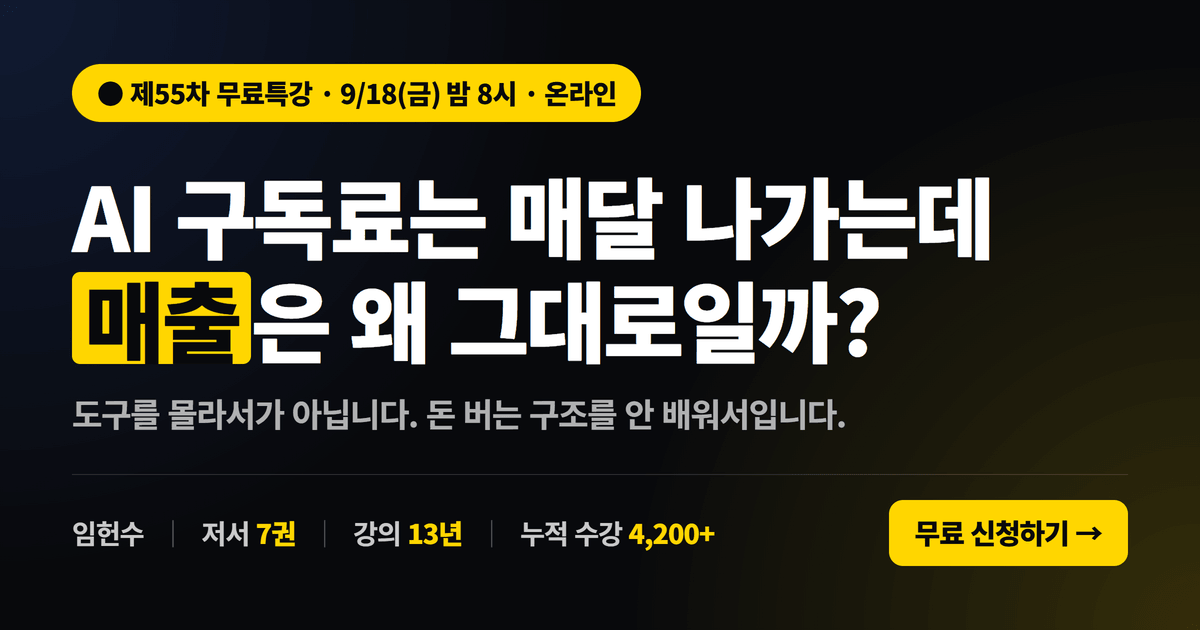
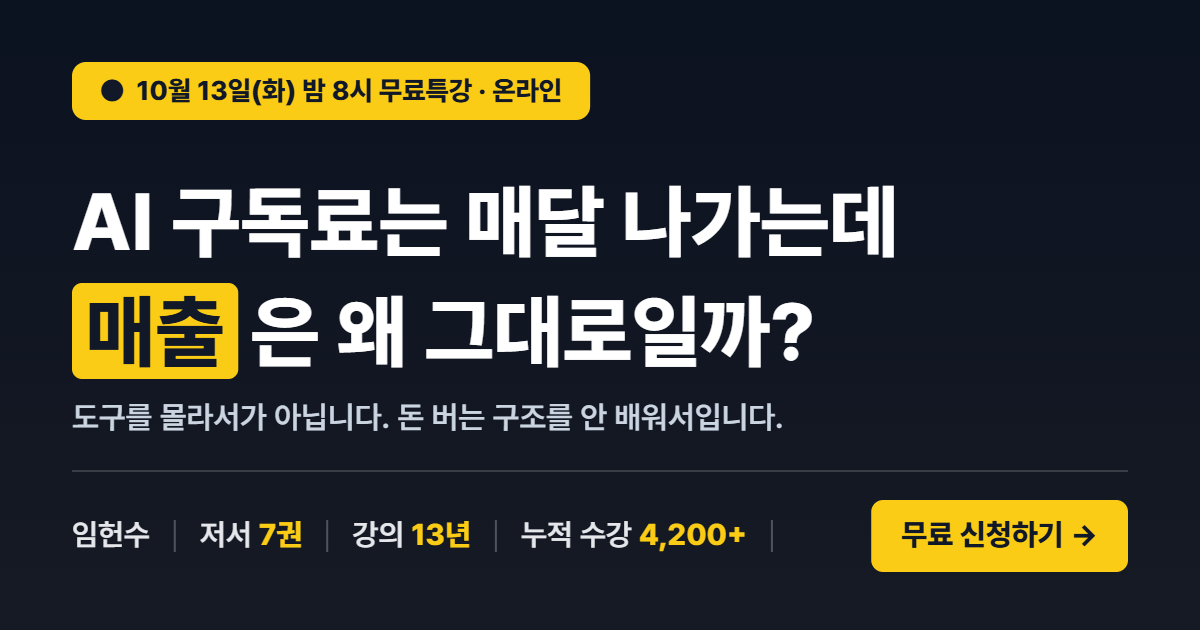
chore: 무료특강 일정 10/13(화)로 전면 교체, 일반 무료특강 톤으로 정리
- lib/constants.ts: CURRENT_SEMINAR 한 곳(시작/종료 ISO, 회차, 구글폼 값)에서
  모든 일시 표기를 파생. 종료 시각(endsAt) 이후 자동으로 "다음 회차 안내"로 전환.
  SEMINAR_DATE_LABEL / SEMINAR_TIME_LABEL / SEMINAR_START_ISO / SEMINAR_END_ISO 추가.
- 신청 폼 다시 열림(10/13 회차). 구글폼 수업 날짜 값은 "10월 13일(화)".
- "마지막/개강 전/2027년까지/10월 8일 개강" 표현 제거, 히어로 배지·긴급 리스트·
  FAQ·푸터를 일반 무료특강 문구로 교체. <title>/description/og/twitter 설명 갱신.
- 신뢰 바 누적 회차를 SEMINAR_ROUND 상수로 분리(59, 확인 필요).
- public/og-image.png: "10월 13일(화) 밤 8시 무료특강" 배지로 재생성(1200x630).

diff --git a/lib/constants.ts b/lib/constants.ts
@@ -1,13 +1,23 @@
-// 다음 특강에는 이 SESSION_LIST만 수정합니다.
-// - visible: false 인 회차는 화면 노출·폼 선택지에서 제외됩니다(코드에는 미리 넣어둘 수 있음).
-// - 활성 회차(SESSION) = visible이고 아직 시작하지 않은 회차 중 가장 이른 회차.
-//   시작 시각이 지나면 다음 회차로 자동으로 넘어갑니다.
-// - formOption: 구글폼 "수업 날짜" 문항(entry.1471197970)의 선택지와 글자 단위로 같아야 합니다.
-//   구글폼은 라디오 값이 선택지와 다르면 응답 전체를 400으로 거부합니다.
-//   생략하면 "10/6(화) 저녁 8시~10시30분" 형식으로 자동 생성되고, 구글폼 쪽 표기가 다르면 여기서 그대로 적어 덮어씁니다.
+// ─────────────────────────────────────────────────────────────────────────────
+// 특강 일시는 여기 CURRENT_SEMINAR 한 곳에서만 관리합니다. 다음 특강 때 이 블록만 고치면 됩니다.
+// 히어로·카운트다운·긴급 섹션·하단 고정 바·신청 폼·완료 문구·메타 설명이 모두 여기서 파생됩니다.
+// ─────────────────────────────────────────────────────────────────────────────
+const CURRENT_SEMINAR = {
+  // [확인 필요: 59차] 신뢰 바 "N차 누적 무료특강"에 표시되는 누적 회차
+  round: 59,
+  startsAtISO: "2026-10-13T20:00:00+09:00",
+  endsAtISO: "2026-10-13T22:30:00+09:00",
+  // 구글폼 9번 문항(entry.1471197970, 수업 날짜)으로 전송되는 값.
+  // 구글폼 선택지와 글자 단위로 같아야 합니다(다르면 구글폼이 응답 전체를 400으로 거부).
+  formOption: "10월 13일(화)",
+} as const;
+
+// 회차 목록. 현재는 CURRENT_SEMINAR 하나이며, 여러 회차를 동시에 모집할 때는 항목을 추가합니다.
+// - visible: false 인 회차는 화면 노출·폼 선택지에서 제외됩니다.
+// - 활성 회차(SESSION) = visible이고 아직 끝나지 않은(endsAt > 현재) 회차 중 가장 이른 회차.
+//   endsAt이 지나면 다음 회차로 넘어가고, 남은 회차가 없으면 마지막 회차를 폴백으로 보여주며 폼은 "다음 회차 안내" 상태가 됩니다.
 const SESSION_LIST = [
-  // 58차(2026년 마지막 무료특강, 17기 개강 이틀 전). 구글폼 선택지: "10/6(화) 저녁8시~10시30분"
-  { round: 58, startsAtISO: "2026-10-06T20:00:00+09:00", durationMinutes: 150, visible: true, formOption: "10/6(화) 저녁8시~10시30분" },
+  { ...CURRENT_SEMINAR, visible: true },
 ] as const;
 
 type SessionSource = (typeof SESSION_LIST)[number];
@@ -16,28 +26,32 @@ export type SessionInfo = {
   round: number;
   visible: boolean;
   startsAtISO: string;
-  /** 시작 시각(epoch ms). 이 시각이 지나면 다음 회차로 넘어갑니다. */
+  endsAtISO: string;
+  /** 시작 시각(epoch ms). 카운트다운 목표 */
   startsAt: number;
+  /** 종료 시각(epoch ms). 이 시각이 지나면 다음 회차로 넘어갑니다. */
   endsAt: number;
-  /** "10/6(화)" */
+  /** "10월" */
+  monthLabel: string;
+  /** "10/13(화)" */
   dateLabel: string;
   /** "밤 8시" */
   timeLabel: string;
-  /** "2026년 10월 6일(화) 밤 8시~10시 30분" */
+  /** "2026년 10월 13일(화) 밤 8시~10시 30분" */
   fullLabel: string;
-  /** "10월 6일(화)" */
+  /** "10월 13일(화)" */
   dateWithWeekday: string;
-  /** "2026년 10월 6일(화)" */
+  /** "2026년 10월 13일(화)" */
   fullDateLabel: string;
-  /** "10월 6일" */
+  /** "10월 13일" */
   monthDayLabel: string;
   /** "밤 8시~10시 30분" */
   timeRangeLabel: string;
   /** "저녁 8시" */
   formTimeLabel: string;
-  /** 폼 라디오에 보여주는 회차 라벨(항상 자동 형식). "10/6(화) 저녁 8시~10시30분" */
+  /** 폼 라디오에 보여주는 회차 라벨. "10/13(화) 저녁 8시~10시30분" */
   pickerLabel: string;
-  /** 구글폼 선택지와 글자 단위로 일치해야 하는 전송값. SESSION_LIST의 formOption이 있으면 그 값, 없으면 pickerLabel과 동일 */
+  /** 구글폼으로 전송되는 값(CURRENT_SEMINAR.formOption). */
   formOption: string;
 };
 
@@ -58,11 +72,17 @@ function kstFields(epochMs: number) {
   };
 }
 
+function parseKstISO(iso: string, label: string, round: number): number {
+  const ms = Date.parse(iso);
+  if (Number.isNaN(ms)) throw new Error(`SESSION_LIST round ${round}: ${label}를 해석할 수 없습니다 (${iso})`);
+  if (!/[+-]\d{2}:\d{2}$/.test(iso)) throw new Error(`SESSION_LIST round ${round}: ${label}에 +09:00 오프셋을 명시해야 합니다`);
+  return ms;
+}
+
 function buildSession(source: SessionSource): SessionInfo {
-  const startsAt = Date.parse(source.startsAtISO);
-  if (Number.isNaN(startsAt)) throw new Error(`SESSION_LIST round ${source.round}: startsAtISO를 해석할 수 없습니다 (${source.startsAtISO})`);
-  if (!/[+-]\d{2}:\d{2}$/.test(source.startsAtISO)) throw new Error(`SESSION_LIST round ${source.round}: startsAtISO에 +09:00 오프셋을 명시해야 합니다`);
-  const endsAt = startsAt + source.durationMinutes * 60 * 1000;
+  const startsAt = parseKstISO(source.startsAtISO, "startsAtISO", source.round);
+  const endsAt = parseKstISO(source.endsAtISO, "endsAtISO", source.round);
+  if (endsAt <= startsAt) throw new Error(`SESSION_LIST round ${source.round}: endsAtISO가 startsAtISO보다 빠릅니다`);
 
   const s = kstFields(startsAt);
   const e = kstFields(endsAt);
@@ -71,20 +91,22 @@ function buildSession(source: SessionSource): SessionInfo {
   const period = s.hour >= 18 ? "밤" : s.hour >= 12 ? "오후" : "오전";
   const formPeriod = s.hour >= 18 ? "저녁" : s.hour >= 12 ? "오후" : "오전";
 
+  const monthLabel = `${s.month}월`;
   const dateLabel = `${s.month}/${s.day}(${s.weekday})`;
   const dateWithWeekday = `${s.month}월 ${s.day}일(${s.weekday})`;
   const timeLabel = `${period} ${hour12}시`;
   const timeRangeLabel = `${timeLabel}~${endHour12}시${e.minute ? ` ${e.minute}분` : ""}`;
   const formTimeLabel = `${formPeriod} ${hour12}시`;
   const pickerLabel = `${dateLabel} ${formTimeLabel}~${endHour12}시${e.minute ? `${e.minute}분` : ""}`;
-  const formOption = "formOption" in source && source.formOption ? source.formOption : pickerLabel;
 
   return {
     round: source.round,
     visible: source.visible,
     startsAtISO: source.startsAtISO,
+    endsAtISO: source.endsAtISO,
     startsAt,
     endsAt,
+    monthLabel,
     dateLabel,
     timeLabel,
     fullLabel: `${s.year}년 ${dateWithWeekday} ${timeRangeLabel}`,
@@ -94,7 +116,7 @@ function buildSession(source: SessionSource): SessionInfo {
     timeRangeLabel,
     formTimeLabel,
     pickerLabel,
-    formOption,
+    formOption: source.formOption,
   };
 }
 
@@ -103,9 +125,24 @@ export const SESSIONS: readonly SessionInfo[] = SESSION_LIST.map(buildSession).s
 
 const VISIBLE_SESSIONS = SESSIONS.filter((session) => session.visible);
 
-/** 선택 가능한 회차: visible이고 아직 시작하지 않은 회차 전부(시작 시각 오름차순). */
+// 현재 설정된 특강의 정적 상수(시각과 무관). 메타 설명 등 빌드 시 고정되는 곳에서 사용합니다.
+const CURRENT = buildSession({ ...CURRENT_SEMINAR, visible: true });
+/** 누적 무료특강 회차. [확인 필요: 59차] */
+export const SEMINAR_ROUND = CURRENT.round;
+/** "10월 13일(화)" */
+export const SEMINAR_DATE_LABEL = CURRENT.dateWithWeekday;
+/** "밤 8시~10시 30분" */
+export const SEMINAR_TIME_LABEL = CURRENT.timeRangeLabel;
+/** "밤 8시" */
+export const SEMINAR_START_TIME_LABEL = CURRENT.timeLabel;
+/** "2026-10-13T20:00:00+09:00" */
+export const SEMINAR_START_ISO = CURRENT.startsAtISO;
+/** "2026-10-13T22:30:00+09:00" */
+export const SEMINAR_END_ISO = CURRENT.endsAtISO;
+
+/** 선택 가능한 회차: visible이고 아직 끝나지 않은 회차 전부(시작 시각 오름차순). */
 export function getSelectableSessions(now: number = Date.now()): readonly SessionInfo[] {
-  return VISIBLE_SESSIONS.filter((session) => session.startsAt > now);
+  return VISIBLE_SESSIONS.filter((session) => session.endsAt > now);
 }
 
 /**
@@ -137,7 +174,7 @@ export const SELECTABLE_SESSIONS: readonly SessionInfo[] = liveList(() => getSel
 
 /**
  * 활성 회차: 선택 가능한 회차 중 가장 이른 회차.
- * 모든 visible 회차가 지났으면 마지막 visible 회차를 그대로 반환해 화면이 비지 않게 합니다(폴백).
+ * 모든 visible 회차가 끝났으면 마지막 visible 회차를 그대로 반환해 화면이 비지 않게 합니다(폴백).
  */
 export function getActiveSession(now: number = Date.now()): SessionInfo {
   const upcoming = getSelectableSessions(now);
@@ -147,19 +184,19 @@ export function getActiveSession(now: number = Date.now()): SessionInfo {
   return fallback;
 }
 
-/** 모든 visible 회차가 지나 폴백 회차를 보여주는 상태인지. */
+/** 모든 visible 회차가 끝나 폴백 회차를 보여주는 상태인지(신청 폼은 "다음 회차 안내"로 전환). */
 export function isSessionFallback(now: number = Date.now()): boolean {
   return getSelectableSessions(now).length === 0;
 }
 
 /**
- * 활성 회차의 파생값. 기존 컴포넌트가 쓰던 SESSION.round, SESSION.dateLabel 등의 이름·형식을 그대로 유지합니다.
+ * 활성 회차의 파생값. 컴포넌트는 SESSION.dateWithWeekday 처럼 이 객체를 통해 읽습니다.
  * 각 필드는 접근 시점의 현재 시각으로 계산되는 게터입니다. 모듈 로드 시 한 번 고정하면
  * 서버 프로세스가 살아 있는 동안 회차가 넘어가지 않으므로 값을 모듈 스코프 상수에 복사하지 마세요.
  */
 const SESSION_KEYS = [
-  "round", "visible", "startsAtISO", "startsAt", "endsAt",
-  "dateLabel", "timeLabel", "fullLabel", "dateWithWeekday", "fullDateLabel",
+  "round", "visible", "startsAtISO", "endsAtISO", "startsAt", "endsAt",
+  "monthLabel", "dateLabel", "timeLabel", "fullLabel", "dateWithWeekday", "fullDateLabel",
   "monthDayLabel", "timeRangeLabel", "formTimeLabel", "pickerLabel", "formOption",
 ] as const satisfies readonly (keyof SessionInfo)[];
 

diff --git a/components/sections/AuthorityApply.tsx b/components/sections/AuthorityApply.tsx
@@ -10,12 +10,12 @@ export function Profile() {
 }
 
 export function Urgency() {
-  const items=[`${SESSION.dateWithWeekday} ${SESSION.timeLabel} · 마지막 무료특강 · 선착순 300명 마감`,"17기 개강 전 마지막 무료특강 — 이후 무료특강 일정 없음","녹화본 없음 · 다시보기 없음","실시간 Q&A는 선착순","17기는 2026년 마지막 기수 · 10월 8일(목) 개강"];
-  return <section className="sales-section bg-brand text-white"><div className="sales-wrap"><FadeUp><h2 className="sales-title text-center">17기 개강 이틀 전, 마지막 무료특강. 준비할 시간이 얼마 없습니다.</h2></FadeUp><FadeUp className="mt-10"><Countdown /></FadeUp><div className="mt-10 space-y-3">{items.map(item=><FadeUp key={item}><p className="rounded-xl bg-white/10 p-4 font-extrabold">🔴 {item}</p></FadeUp>)}</div></div></section>;
+  const items=[`${SESSION.dateWithWeekday} ${SESSION.timeLabel} · 무료특강 · 선착순 300명 마감`,"녹화본 없음 · 다시보기 없음","실시간 Q&A는 선착순","참가비 0원 · 결제 정보 요구 없음"];
+  return <section className="sales-section bg-brand text-white"><div className="sales-wrap"><FadeUp><h2 className="sales-title text-center">{SESSION.dateWithWeekday} {SESSION.timeLabel}. 자리가 얼마 남지 않았습니다.</h2></FadeUp><FadeUp className="mt-10"><Countdown /></FadeUp><div className="mt-10 space-y-3">{items.map(item=><FadeUp key={item}><p className="rounded-xl bg-white/10 p-4 font-extrabold">🔴 {item}</p></FadeUp>)}</div></div></section>;
 }
 
 export function Apply() {
-  return <section id="apply" className="sales-section scroll-mt-6 bg-surface"><div className="sales-wrap"><FadeUp className="text-center"><h2 className="sales-title">0원. 2시간 30분. 자리 하나.</h2><p className="sales-body mt-4 font-extrabold text-danger">이번을 놓치면 2027년까지 기다려야 합니다.</p><p className="sales-body mt-2 text-muted">신청하시면 문자로 참여 링크를 보내드립니다.</p></FadeUp><FadeUp className="mt-10"><ApplyForm /></FadeUp></div></section>;
+  return <section id="apply" className="sales-section scroll-mt-6 bg-surface"><div className="sales-wrap"><FadeUp className="text-center"><h2 className="sales-title">0원. 2시간 30분. 자리 하나.</h2><p className="sales-body mt-4 font-extrabold text-danger">녹화본 없이, 그날 그 자리에서만 보실 수 있습니다.</p><p className="sales-body mt-2 text-muted">신청하시면 문자로 참여 링크를 보내드립니다.</p></FadeUp><FadeUp className="mt-10"><ApplyForm /></FadeUp></div></section>;
 }
 
 const faqs = [
@@ -25,7 +25,7 @@ const faqs = [
   ["제 업종에도 해당되나요?", "오프라인 매장, 온라인 쇼핑몰, 서비스업, 1인 프리랜서 모두 적용 가능한 구조로 설명드립니다."],
   ["노트북이 꼭 있어야 하나요?", "폰으로 시청만 하셔도 됩니다. 다만 함께 따라 해보시려면 PC를 권장합니다."],
   ["중간에 나가도 되나요?", "네. 다만 4번째 파트(AI 직원 세팅)가 가장 반응이 좋습니다."],
-  ["17기는 언제 시작하나요?", "2026년 10월 8일(목) 개강, 12주 과정입니다. 매주 목요일 저녁 8~11시 Zoom 라이브로 진행됩니다."]
+  ["17기는 언제 시작하나요?", "12주 과정이며, 매주 목요일 저녁 8~11시 Zoom 라이브로 진행됩니다. 자세한 일정과 참여 방법은 특강 마지막 10분에 안내드립니다."]
 ];
 
 export function FAQ() {
@@ -33,5 +33,5 @@ export function FAQ() {
 }
 
 export function FinalCTA() {
-  return <><section className="sales-section bg-brand-dark text-center text-white"><div className="sales-wrap"><FadeUp><h2 className="text-3xl font-black leading-relaxed md:text-5xl">작년에도 똑같은 고민 하셨을 겁니다.<br /><br />내년에도 똑같이 하시겠습니까?</h2><a href="#apply" className="primary-cta mt-10 flex w-full items-center justify-between rounded-xl bg-brand px-6 py-5 font-black">무료특강 신청하기 <span>→</span></a><p className="mt-7 text-sm font-extrabold leading-7 text-accent">P.S. 녹화본은 없습니다.<br />{SESSION.monthDayLabel} {SESSION.timeLabel}, 그 자리에 계셔야 합니다.</p></FadeUp></div></section><footer className="bg-slate-950 px-5 py-10 text-center text-sm leading-7 text-slate-400"><p className="font-bold text-white">거상스쿨 · 거상마케팅센터</p><p>교육 문의 : 권현임 교육팀장 <a className="text-white underline" href="tel:01057958075">010-5795-8075</a></p><p>AI마케팅스쿨 17기 : 2026년 10월 8일(목) 개강 · 12주 과정</p></footer></>;
+  return <><section className="sales-section bg-brand-dark text-center text-white"><div className="sales-wrap"><FadeUp><h2 className="text-3xl font-black leading-relaxed md:text-5xl">작년에도 똑같은 고민 하셨을 겁니다.<br /><br />내년에도 똑같이 하시겠습니까?</h2><a href="#apply" className="primary-cta mt-10 flex w-full items-center justify-between rounded-xl bg-brand px-6 py-5 font-black">무료특강 신청하기 <span>→</span></a><p className="mt-7 text-sm font-extrabold leading-7 text-accent">P.S. 녹화본은 없습니다.<br />{SESSION.monthDayLabel} {SESSION.timeLabel}, 그 자리에 계셔야 합니다.</p></FadeUp></div></section><footer className="bg-slate-950 px-5 py-10 text-center text-sm leading-7 text-slate-400"><p className="font-bold text-white">거상스쿨 · 거상마케팅센터</p><p>교육 문의 : 권현임 교육팀장 <a className="text-white underline" href="tel:01057958075">010-5795-8075</a></p><p>AI마케팅스쿨 17기 · 12주 과정 · 매주 목요일 Zoom 라이브</p></footer></>;
 }

diff --git a/components/sections/Hero.tsx b/components/sections/Hero.tsx
@@ -1,11 +1,11 @@
-import { SESSION } from "@/lib/constants";
+import { SESSION, SEMINAR_ROUND } from "@/lib/constants";
 
 export function Hero() {
   return (
     <section className="flex min-h-[100svh] items-center bg-brand-dark px-5 py-16 text-white md:min-h-0 md:py-28">
       <div className="mx-auto w-full max-w-[900px] text-center">
         <div>
-          <p className="section-eyebrow mb-6 inline-flex rounded-full border border-blue-300/30 bg-blue-400/10 px-4 py-2 font-bold text-blue-100">🔥 2026년 마지막 무료특강</p>
+          <p className="section-eyebrow mb-6 inline-flex rounded-full border border-blue-300/30 bg-blue-400/10 px-4 py-2 font-bold text-blue-100">🔥 {SESSION.monthLabel} 무료특강 · 선착순 300명</p>
           <h1 className="text-[1.8rem] font-black leading-[1.22] tracking-[-.045em] sm:text-5xl md:text-[4rem]">ChatGPT 3년째 쓰는데,<br /><mark>왜 통장은 그대로일까요?</mark></h1>
           <p className="mt-6 text-lg leading-8 text-slate-300 md:text-xl">도구를 몰라서가 아닙니다.<br /><strong className="text-accent">돈이 들어오는 구조</strong>를 안 배웠기 때문입니다.</p>
           <div className="hero-meta mt-8 grid gap-3 font-semibold text-slate-200 md:grid-cols-3">
@@ -14,7 +14,7 @@ export function Hero() {
             <p className="rounded-lg bg-white/5 px-3 py-3">⏺ 녹화본<br />없음</p>
           </div>
           <a href="#apply" className="primary-cta mt-6 flex w-full min-h-16 items-center justify-between rounded-xl bg-brand px-6 py-5 font-black text-white shadow-lg shadow-blue-950/40 transition hover:-translate-y-0.5 hover:bg-blue-600 focus:outline-none focus:ring-4 focus:ring-blue-300">무료로 자리 맡기 <span>→</span></a>
-          <p className="hero-note mt-4 font-medium text-slate-300">이번을 놓치면 2027년까지 기다려야 합니다.<br />신청하시면 문자로 참여 링크를 보내드립니다.</p>
+          <p className="hero-note mt-4 font-medium text-slate-300">녹화본 없이, 실시간으로만 진행합니다.<br />신청하시면 문자로 참여 링크를 보내드립니다.</p>
         </div>
       </div>
     </section>
@@ -24,7 +24,8 @@ export function Hero() {
 export function TrustBar() {
   const items = [
     { number: "13년", description: "현장 강의", full: "13년 현장 강의" },
-    { number: `${SESSION.round}차`, description: "누적 무료특강", full: `누적 ${SESSION.round}차 무료특강` },
+    // [확인 필요: 59차] 누적 회차는 lib/constants.ts의 CURRENT_SEMINAR.round에서 관리
+    { number: `${SEMINAR_ROUND}차`, description: "누적 무료특강", full: `누적 ${SEMINAR_ROUND}차 무료특강` },
     { number: "7권", description: "마케팅 저서", full: "마케팅 저서 7권" },
     { number: "16기", description: "수료생 배출", full: "16기 수료생 배출" },
   ];

diff --git a/app/layout.tsx b/app/layout.tsx
@@ -1,18 +1,24 @@
 import type { Metadata } from "next";
 import Script from "next/script";
 import "./globals.css";
+import { SEMINAR_DATE_LABEL, SEMINAR_START_TIME_LABEL } from "@/lib/constants";
+
+// 특강 일시는 lib/constants.ts의 CURRENT_SEMINAR에서 파생됩니다.
+// [확인 필요] <title>: 일시를 앞세운 형태로 바꿨습니다. og/twitter title은 기존 문구 유지.
+const SEMINAR_TITLE = `${SEMINAR_DATE_LABEL} ${SEMINAR_START_TIME_LABEL} 무료특강 | AI로 돈이 들어오는 구조`;
+const SEMINAR_DESCRIPTION = `${SEMINAR_DATE_LABEL} ${SEMINAR_START_TIME_LABEL} 무료특강. 콘텐츠·광고·홈페이지·AI직원까지 한 줄로 연결하는 구조를 2시간 30분에 공개합니다.`;
 
 export const metadata: Metadata = {
   metadataBase: new URL("https://aimarketingschool17.vercel.app"),
-  title: "AI로 돈이 들어오는 구조 | AI마케팅스쿨 무료특강",
-  description: "10월 6일(화) 밤 8시 마지막 무료특강. 콘텐츠·광고·홈페이지·AI직원까지 한 줄로 연결하는 구조를 2시간 30분에 공개합니다.",
+  title: SEMINAR_TITLE,
+  description: SEMINAR_DESCRIPTION,
   openGraph: {
     type: "website",
     locale: "ko_KR",
     url: "https://aimarketingschool17.vercel.app",
     siteName: "AI마케팅스쿨",
     title: "AI로 돈이 들어오는 구조 | AI마케팅스쿨 무료특강",
-    description: "10월 6일(화) 밤 8시 마지막 무료특강. 콘텐츠·광고·홈페이지·AI직원까지 한 줄로 연결하는 구조를 2시간 30분에 공개합니다.",
+    description: SEMINAR_DESCRIPTION,
     images: [
       {
         url: "https://aimarketingschool17.vercel.app/og-image.png",
@@ -25,7 +31,7 @@ export const metadata: Metadata = {
   twitter: {
     card: "summary_large_image",
     title: "AI로 돈이 들어오는 구조 | AI마케팅스쿨 무료특강",
-    description: "10월 6일(화) 밤 8시 마지막 무료특강. 콘텐츠·광고·홈페이지·AI직원까지 한 줄로 연결하는 구조를 2시간 30분에 공개합니다.",
+    description: SEMINAR_DESCRIPTION,
     images: ["https://aimarketingschool17.vercel.app/og-image.png"],
   },
 };
